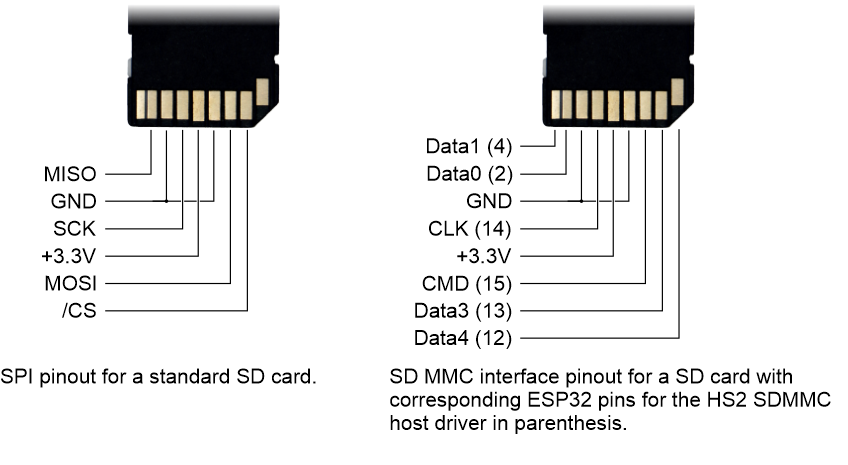
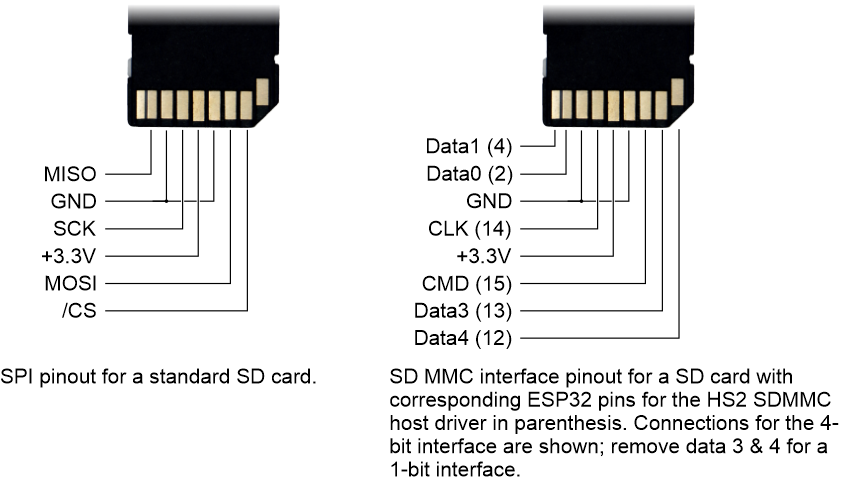
Added some info on 1-bit and 4-bit interface

diff --git a/README.md b/README.md
@@ -21,7 +21,7 @@ The ESP32 and ESP8266 include a custom SD card library so the Arduino SD library
 # Hardware Connection
 SD cards can be connected to the SPI bus found on most Arduino microcontrollers, or the SDMMC bus found on a small number of devices such as the ESP32. 
 
-SD cards operate at 3.3&nbsp;V so you'll need a level shifter such as the [SparkFun microSD shield](https://www.sparkfun.com/products/12761)  if your Arduino operates at 5&nbsp;V. Otherwise you can connect the SD card directly to the Arduino, the diagram below shows the SD card pinout. ArtsyEngineering has a good video on [connecting SD cards to the ESP32](https://www.youtube.com/watch?v=e1xOgZsnAuw). 
+SD cards operate at 3.3&nbsp;V so you'll need a level shifter such as the [SparkFun microSD shield](https://www.sparkfun.com/products/12761)  if your Arduino operates at 5&nbsp;V. Otherwise you can connect the SD card directly to the Arduino, the diagram below shows the SD card pinout. ArtsyEngineering has a good video on [connecting SD cards to the ESP32](https://www.youtube.com/watch?v=e1xOgZsnAuw). The ESP32's SDMMC bus works with both 1-bit and 4-bit connections. The 4-bit interface provides a roughly 20% improvement in speed over the 1-bit interface at the cost of two extra pins (data 3 and 4 are not required for the 1-bit interface). 
 
 ![SD Card Connections](documentation/images/SDCardConnections.png)
 
